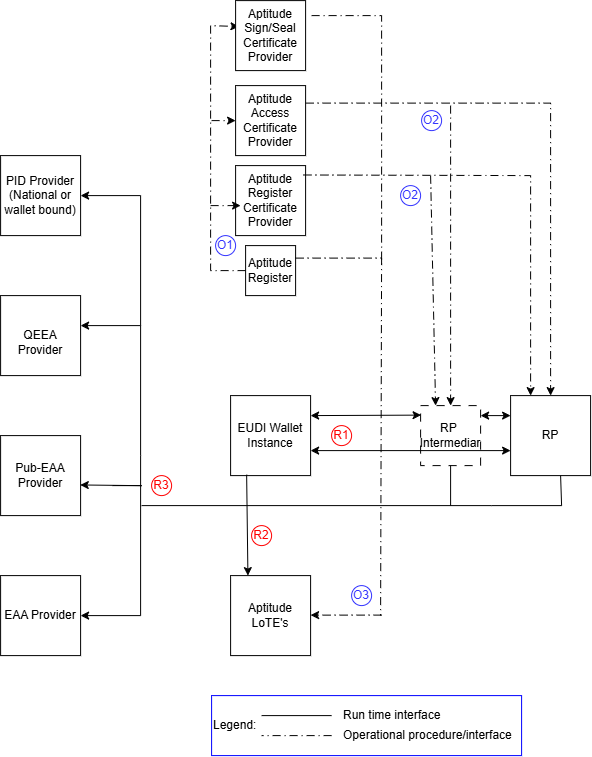
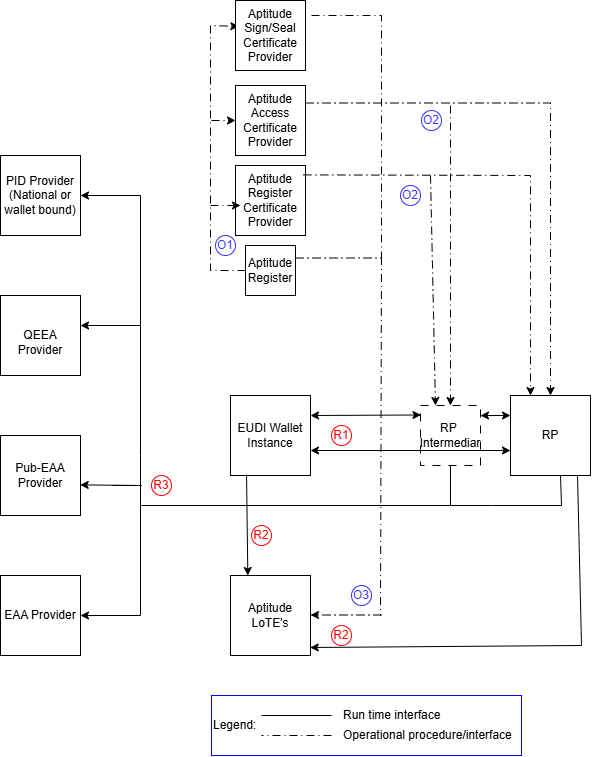
Final changes for ver 1.0 of remote presentation flow (#351)
* Final changes for ver 1.0

- fixed version reference of ETSI TS 119 472-1 to the latest 1.2.1 version
- removed requirement from 3.1.1 on http method used when JAR is collected

* Update Aptitude_issuance_landscape-roles_and_interfaces_overview.png

* Version 1.0 matching RFC02 ver1.0

Redo mappings on sequence diagram steps due to release of updated RFC02 from 12/10

* fixing PNG diagram

Fixing per mistake earlier today messed up roles and interface overview for issuance flow content

* Adjustments based on Nikos review

see PR for details

diff --git a/docs/wp2/Generic-remote-presentation-flow-specification.md b/docs/wp2/Generic-remote-presentation-flow-specification.md
@@ -1,7 +1,7 @@
 # Generic remote presentation flow specification
 
-Version 0.99
-Date 15-09-2026
+Version 1.0
+Date 22-10-2026
 
 ## Authors
 
@@ -112,8 +112,8 @@ href="https://www.rfc-editor.org/info/rfc9101/">RFC 9101</a></p>
 href="https://datatracker.ietf.org/doc/draft-ietf-oauth-sd-jwt-vc/17/">SD-JWT
 VC Draft 17</a>, <a
 href="https://www.rfc-editor.org/info/rfc9901/">RFC9901 (SD-JWT)</a>, <a
-href="https://www.etsi.org/deliver/etsi_ts/119400_119499/11947201/01.01.01_60/ts_11947201v010101p.pdf">ETSI
-TS 119 472-1 ver1.1.1</a></p></td>
+href="https://www.etsi.org/deliver/etsi_ts/119400_119499/11947201/01.02.01_60/ts_11947201v010201p.pdf">ETSI
+TS 119 472-1 ver1.2.1</a></p></td>
 <td>VP and supporting standards</td>
 </tr>
 <tr>
@@ -159,7 +159,6 @@ In follow up table the requirements relevant for the flow are listed with decisi
 |Browser mediation API (Digital Credential API) usage in cross-device flow|Not in the scope | To introduce it as optional within the ver 1.1|
 |Response with VP Token through browser redirect or HTTP POST request|Partially in scope | Only HTTP Post shall be used, as mandated by HAIP|
 |RO (Request Object) shall be retrieved as JAR, as per [RFC9101](https://www.rfc-editor.org/info/rfc9101/)|In scope|For this applied HAIP/ETSI flow, the signed JAR Request Object is passed by reference using `request_uri` in same-device and cross-device flows. Its JOSE header has `typ` set to `oauth-authz-req+jwt`, and `client_id` uses the `x509_hash` prefix. The Wallet checks the audience, nonce, validity period, signature, and applicable `x5c` restrictions. These are profile choices for this flow, not baseline RFC002 trust-governance rules.|
-|Verifier and wallet may support using of request_uri_method=post, allowing wallet to pass its technical capabilities when requesting RO|Not in the scope|Only the value of get is supported|
 |Support for verifiable presentations and for low-security credentials (without holder binding)|In scope|Impact on the validation steps by verifier|
 |response_type=vp_token parameter, combined with parameters response_uri and response_mode, that can have values of direct_post or direct_post.jwt is recommended to use within the RO|Partially in scope|This applied HAIP/ETSI flow uses `response_mode=direct_post.jwt`. The encrypted response uses verifier response-encryption key material supplied in `client_metadata`; the verifier provides fresh key material for each request.|
 |Protocol supports broad range of client_id_prefix schemes|Partially in the scope|Subsequent profiles are limiting prefixes use. Retrieval of the verifier metadata depends on the prefix value, hence listing requirements as relevant for the flow|
@@ -279,7 +278,7 @@ sequenceDiagram
     R->>L: [V4.2] Fetch and validate QEAA-/(Pub)EAA-Provider LoTE
     L-->>R: LoTE
     Note over R: [V4.3] Validate credentials
-    opt Credential status is applicable
+    opt Credential status check is applicable
       R->>S: [4.3] Retrieve Status List Token
       S-->>R: Status List Token
       Note over R: [V4.4] Validate credential status
@@ -300,29 +299,29 @@ sequenceDiagram
 | SD step | API/message or process | Step description and references |
 | --- | --- | --- |
 | 1.1 | Request service | The User starts a service interaction with the RP or RPI. |
-| 1.2 | Request Wallet metadata | Optionally retrieve the Wallet metadata and supported presentation formats. See [OpenID4VP 1.0](https://openid.net/specs/openid-4-verifiable-presentations-1_0.html). |
-| 2a.1 | Send same-device Authorization Request | Invoke the Wallet using `request_uri`, `client_id`, and the applicable `request_uri_method`. Supported custom URI schemes are `eu-eaap://`, `haip-vp://`, `openid4vp://`, and `mdoc-openid4vp://`. See [RFC002 §6.1.2 and §8.1](../RFCs/RFC002.md#612-wallet-invocation). |
-| 2b.1 | Display cross-device Authorization Request | Encode the Authorization Request reference in a QR code for scanning by the Wallet. This RFC version does not use `mdoc-openid4vp` for cross-device presentation. See [RFC002 §6.2](../RFCs/RFC002.md#62-cross-device-presentation-flow-non-api-mediated). |
-| 2.2 | Retrieve Request Object | Retrieve the signed JAR Request Object by reference from `request_uri`. See [RFC002 §8.2](../RFCs/RFC002.md#82-presentation-request-interface). |
-| V2.1 | Validate Request Object | Parse the Request Object and validate the applicable profile requirements for `typ`, `client_id` with `x509_hash`, `aud`, `nonce`, validity, `response_type`, `response_mode`, `response_uri`, `client_metadata`, `dcql_query`, `state`, `verifier_info`, and `x5c`. Cryptographic WRP authentication is completed in V2.3. See [OpenID4VP §5, §5.1](https://openid.net/specs/openid-4-verifiable-presentations-1_0.html#name-request-object-validation), [HAIP §5.1](https://openid.net/specs/openid4vc-high-assurance-interoperability-profile-1_0-final.html), [RFC9101](https://www.rfc-editor.org/info/rfc9101), and [RFC002 §8.2.2 and §8.2.4](../RFCs/RFC002.md#822-etsi-aligned-request-object-requirements). |
+| 1.2 | Request Wallet metadata | Optionally retrieve the Wallet metadata and supported presentation formats. See [RFC002 §6.1.1](../RFCs/RFC002.md#611-wallet-metadata-discovery), [RFC002 §6.2.1](../RFCs/RFC002.md#621-wallet-metadata-discovery) and [RFC002 §8.5](../RFCs/RFC002.md#85-wallet-metadata-interface) |
+| 2a.1 | Send same-device Authorization Request | Invoke the Wallet app from the browser session running on the mobile device and pass `client_id`, `request_uri` and optional `request_uri_method`. See [RFC002 §6.1.3](../RFCs/RFC002.md#613-wallet-invocation) and [RFC002 §8.1](../RFCs/RFC002.md#81-wallet-invocation-interface) |
+| 2b.1 | Display cross-device Authorization Request | Encode the Authorization Request reference in a QR code for scanning by the Wallet. See [RFC002 §6.2.2](../RFCs/RFC002.md#622-presentation-request-creation-and-display), [RFC002 §6.2.3](../RFCs/RFC002.md#623-wallet-invocation-via-qr-link-or-equivalent) and [RFC002 §8.1](../RFCs/RFC002.md#81-wallet-invocation-interface) |
+| 2.2 | Retrieve Request Object | Retrieve the signed JAR Request Object by reference from `request_uri`. See [RFC002 §6.1.4](../RFCs/RFC002.md#614-request-object-retrieval) and [RFC002 §6.2.4](../RFCs/RFC002.md#624-request-object-retrieval). Further [RFC002 §6.1.2](../RFCs/RFC002.md#612-presentation-request-creation) and [RFC002 §8.3](../RFCs/RFC002.md#83-presentation-request-object) provide more info on JAR object itself.  [RFC002 §8.2](../RFCs/RFC002.md#82-signed-presentation-request-object-retrieval) provides info on different protocol options that can be used to retrieve JAR object |
+| V2.1 | Validate Request Object | Parse the Request Object and validate the applicable profile requirements for `typ`, `client_id` with `x509_hash`, `aud`, `nonce`, validity, `response_type`, `response_mode`, `response_uri`, `client_metadata`, `dcql_query`, `state`, `verifier_info`, and `x5c`. Cryptographic WRP authentication is completed in V2.3. See [RFC002 §6.1.5](../RFCs/RFC002.md#615-wallet-validation) and [RFC002 §8.3.4](../RFCs/RFC002.md#834-request-validation-expectations) |
 | V2.2 | Validate WRPAC-provider LoTE | Retrieve the dedicated WRPAC-provider LoTE through the common LoTE endpoint, validate the LoTE, and extract the applicable WRPAC Trust Anchor before certificate-path validation. See the [RFC003 LoTE Endpoint](../RFCs/RFC003.md#71-lote-endpoint), [Trust Anchor Validation Process](https://aptitude-consortium.github.io/wp2-trust-specifications/latest/sections/trust-evaluation-process/#trust-anchor-validation-process), and [LoTE Validation Process](https://aptitude-consortium.github.io/wp2-trust-specifications/latest/sections/trust-evaluation-process/#list-of-trusted-entities-validation-process). |
-| V2.3 | Authenticate WRP | Validate the WRPAC path at the current time using RFC 5280, check certificate status through the applicable RFC004 CRL or OCSP mechanism, verify the Request Object signature with the validated WRPAC leaf key, and verify `x509_hash`, `typ`, audience, nonce, validity, and applicable HAIP `x5c` restrictions. The result is `AUTHENTICATED` or blocking `NON_AUTHENTICATED`. See the [Authentication Process](https://aptitude-consortium.github.io/wp2-trust-specifications/latest/sections/trust-evaluation-process/#authentication-process), [WRPAC](https://aptitude-consortium.github.io/wp2-trust-specifications/latest/sections/trust-artifacts/#wallet-relying-party-access-certificate), [X.509 Certificate Chain Validation](https://aptitude-consortium.github.io/wp2-trust-specifications/latest/sections/trust-evaluation-process/#certificate-path-validation), and [RFC004 §6.1, 7.1, and §7.2](../RFCs/RFC004.md#61-wallet-solution-requirements). |
-| 2.3 | Extract authorization evidence | Extract the remote WRPRC and RPRC_19a presentation context from `verifier_info`. See [Authorization Evidences and Distribution Methods](https://aptitude-consortium.github.io/wp2-trust-specifications/latest/sections/trust-evaluation-process/#authorization-evidences) and [RFC002 §8.2.2](../RFCs/RFC002.md#822-etsi-aligned-request-object-requirements). |
+| V2.3 | Authenticate WRP | Validate the WRPAC path at the current time using RFC 5280, check certificate status through the applicable RFC004 CRL or OCSP mechanism, verify the Request Object signature with the validated WRPAC leaf key, and verify `x509_hash`, `typ`, audience, nonce, validity, and applicable HAIP `x5c` restrictions. The result is `AUTHENTICATED` or blocking `NON_AUTHENTICATED`. See the [Authentication Process](https://aptitude-consortium.github.io/wp2-trust-specifications/latest/sections/trust-evaluation-process/#authentication-process), [WRPAC](https://aptitude-consortium.github.io/wp2-trust-specifications/latest/sections/trust-artifacts/#wallet-relying-party-access-certificate) and [X.509 Certificate Chain Validation](https://aptitude-consortium.github.io/wp2-trust-specifications/latest/sections/trust-evaluation-process/#certificate-path-validation) |
+| 2.3 | Extract authorization evidence | Extract the remote WRPRC and RPRC_19a presentation context from `verifier_info`. See [Authorization Evidences and Distribution Methods](https://aptitude-consortium.github.io/wp2-trust-specifications/latest/sections/trust-evaluation-process/#authorization-evidences) and [RFC002 §8.3.2](../RFCs/RFC002.md#832-registrar-information-and-registration-certificates) |
 | V2.4 | Validate WRPRC-provider LoTE | Retrieve the dedicated WRPRC-provider LoTE through the same LoTE endpoint used in V2.2, validate the LoTE, and extract the applicable WRPRC Trust Anchor. See the [RFC003 LoTE Endpoint](../RFCs/RFC003.md#71-lote-endpoint) and [Trust Anchor Validation Process](https://aptitude-consortium.github.io/wp2-trust-specifications/latest/sections/trust-evaluation-process/#trust-anchor-validation-process). |
-| V2.5 | Validate WRPRC | Validate the remote WRPRC format and `typ=rc-wrp+jwt`, accepted algorithm, signature, certificate path, `iat` and `exp`, status, subject/context coherence, and intermediary data. See the [WRPRC Validation Procedure](https://aptitude-consortium.github.io/wp2-trust-specifications/latest/sections/trust-evaluation-process/#wrprc-validation-procedure), [WRPRC](https://aptitude-consortium.github.io/wp2-trust-specifications/latest/sections/trust-artifacts/#wallet-relying-party-registration-certificate), [X.509 validation](https://aptitude-consortium.github.io/wp2-trust-specifications/latest/sections/trust-evaluation-process/#certificate-path-validation), and [RFC004 §6.3, 7.3, and §10.1.3](../RFCs/RFC004.md#63-provider-of-wrprc-requirements). |
+| V2.5 | Validate WRPRC | Validate the remote WRPRC format and `typ=rc-wrp+jwt`, accepted algorithm, signature, certificate path, `iat` and `exp`, status, subject/context coherence, and intermediary data. See the [WRPRC Validation Procedure](https://aptitude-consortium.github.io/wp2-trust-specifications/latest/sections/trust-evaluation-process/#wrprc-validation-procedure), [WRPRC](https://aptitude-consortium.github.io/wp2-trust-specifications/latest/sections/trust-artifacts/#wallet-relying-party-registration-certificate), [X.509 validation](https://aptitude-consortium.github.io/wp2-trust-specifications/latest/sections/trust-evaluation-process/#certificate-path-validation), and [RFC004 §6.3, 7.3, and §10.1.3](../RFCs/RFC004.md#63-provider-of-wrprc-requirements) |
 | V2.6 | Evaluate presentation authorization | Apply direct or intermediary binding, `Service_Provider` entitlement, user-optional exact and case-sensitive scope comparison, and EDP evaluation for every matching attestation. Use final-RP context for an intermediated request. Display the final RP identity, requested attributes, intended use, privacy policy, and advisories. Binding and intermediary failures are non-overridable; the other presentation outcomes follow the authorization override rules. See [Authorization During Presentation](https://aptitude-consortium.github.io/wp2-trust-specifications/latest/sections/trust-evaluation-process/#authorization-during-presentation), [binding](https://aptitude-consortium.github.io/wp2-trust-specifications/latest/sections/trust-evaluation-process/#binding-verification-procedure), [entitlement](https://aptitude-consortium.github.io/wp2-trust-specifications/latest/sections/trust-evaluation-process/#entitlement-verification-procedure), [scope](https://aptitude-consortium.github.io/wp2-trust-specifications/latest/sections/trust-evaluation-process/#scope-comparison-procedure-presentation-only-user-optional), [EDP](https://aptitude-consortium.github.io/wp2-trust-specifications/latest/sections/trust-evaluation-process/#edp-evaluation-procedure). |
-| 3.1 | Authenticate User | Authenticate the User locally before allowing credential disclosure. See [RFC002 same-device](../RFCs/RFC002.md#61-same-device-presentation-flow) and [cross-device](../RFCs/RFC002.md#62-cross-device-presentation-flow-non-api-mediated) presentation flows. |
-| 3.2 | Select credentials and disclosures | Select credentials and disclosures that satisfy `dcql_query`. Where applicable, include `transaction_data` in the information presented for User consent. See [RFC002 §6.1.5](../RFCs/RFC002.md#615-presentation-generation) and [OpenID4VP DCQL processing](https://openid.net/specs/openid-4-verifiable-presentations-1_0.html). |
+| 3.1 | Authenticate User | Authenticate the User locally before allowing credential disclosure. |
+| 3.2 | Select credentials and disclosures | Select credentials and disclosures that satisfy `dcql_query`. Where applicable, include `transaction_data` in the information presented for User consent. See [RFC002 §6.1.6](../RFCs/RFC002.md#616-holder-consent) and [OpenID4VP DCQL processing](https://openid.net/specs/openid-4-verifiable-presentations-1_0.html) |
 | 3.3 | Approve or deny disclosure | Ask the User to approve or deny disclosure after displaying the final RP and the authorization information and advisories produced by V2.6. See the [Authorization Process User approval steps](https://aptitude-consortium.github.io/wp2-trust-specifications/latest/sections/trust-evaluation-process/#authorization-during-presentation). |
-| 3.4 | Generate or omit holder proof | For SD-JWT VC, generate a KB-JWT bound to the request nonce and audience when holder binding is required. For `mso_mdoc`, generate the `DeviceResponse` and `DeviceAuth` using the reconstructed `SessionTranscript` when `mdoc-openid4vp` applies. If holder binding is not required, omit the proof while retaining request/response correlation and anti-replay validation. See [RFC9901 §4.3](https://www.rfc-editor.org/rfc/rfc9901.html#section-4.3), [RFC002 §5.6, §7.2, §8.2.3.1, §8.2.5, and §8.3.3.1](../RFCs/RFC002.md#56-mdoc-openid4vp-profile), and the [HAIP format rules](https://openid.net/specs/openid4vc-high-assurance-interoperability-profile-1_0-final.html#name-openid4vc-credential-format). |
-| 3.5 | Encrypt Authorization Response | Encrypt the response as JWE using the verifier's fresh per-request key from `client_metadata` and the applicable `alg`, `enc`, and `kid`. For HAIP, use ECDH-ES with P-256 and support the applicable `A128GCM` and `A256GCM` content-encryption algorithms. See [RFC002 §8.3.2](../RFCs/RFC002.md#832-etsi-aligned-response-protection), [OpenID4VP §8.3](https://openid.net/specs/openid-4-verifiable-presentations-1_0.html#name-response), and [HAIP §§5.1.2.3, 5.2.5, and 5.2.6](https://openid.net/specs/openid4vc-high-assurance-interoperability-profile-1_0-final.html). |
-| 4.1 | Submit Authorization Response | Send an HTTP POST using `response_mode=direct_post.jwt`, with the encrypted JWE in the `response` parameter. See [RFC002 §8.3](../RFCs/RFC002.md#83-presentation-response-interface) and [OpenID4VP `direct_post.jwt`](https://openid.net/specs/openid-4-verifiable-presentations-1_0.html#name-response-mode-direct_postjw). |
-| 4.2 | Decrypt Authorization Response | Decrypt the JWE using the verifier's corresponding per-request private key before validating the enclosed response and presentations. See [RFC002 §8.3.2](../RFCs/RFC002.md#832-etsi-aligned-response-protection) and [OpenID4VP encrypted responses](https://openid.net/specs/openid-4-verifiable-presentations-1_0.html#name-encrypted-responses). |
-| V4.1 | Validate presentations | Validate request/session correlation and `state` where applicable, nonce and audience/client binding, response and proof integrity, requested disclosures and claim constraints, and format-specific holder binding. For mdoc, validate `DeviceResponse`, document type, namespaces and elements, handover, `DeviceAuth`, and the reconstructed `SessionTranscript`. Reject invalid presentations before relying on them. See [RFC002 §7.2 and §8.3.3.1 and APT-PRES-VER-08 through -12](../RFCs/RFC002.md#72-verifier-requirements), [OpenID4VP §8](https://openid.net/specs/openid-4-verifiable-presentations-1_0.html), and [HAIP §5](https://openid.net/specs/openid4vc-high-assurance-interoperability-profile-1_0-final.html). |
+| 3.4 | Generate or omit holder proof | For SD-JWT VC, generate binding through KB-JWT by using `nonce` and `audience` . For `mso_mdoc`, generate the `DeviceResponse` and `DeviceAuth` using the reconstructed `SessionTranscript` when `mdoc-openid4vp` applies. If holder binding is not required, omit the proof while retaining request/response correlation and anti-replay validation. See [RFC9901 §4.3](https://www.rfc-editor.org/rfc/rfc9901.html#section-4.3), [RFC002 §6.1.7](../RFCs/RFC002.md#617-presentation-generation) and [RFC002 §8.4.1](../RFCs/RFC002.md#841-response-contents) |
+| 3.5 | Encrypt Authorization Response | Encrypt the response as JWE using the verifier's fresh per-request key from `client_metadata` and the applicable `alg`, `enc`, and `kid`. See [RFC002 §6.1.7](../RFCs/RFC002.md#617-presentation-generation) and [RFC002 §8.4.2](../RFCs/RFC002.md#842-eu-eaap-response-encryption) |
+| 4.1 | Submit Authorization Response | Send an HTTP POST using `response_mode=direct_post.jwt`, with the encrypted JWE in the `response` parameter. See [RFC002 §6.1.8](../RFCs/RFC002.md#618-presentation-submission), [RFC002 §6.2.8](../RFCs/RFC002.md#628-presentation-submission) and [RFC002 §8.4](../RFCs/RFC002.md#84-presentation-response-interface)|
+| 4.2 | Decrypt Authorization Response | Decrypt the JWE using the verifier's corresponding per-request private key before validating the enclosed response and presentations. See  [OpenID4VP encrypted responses](https://openid.net/specs/openid-4-verifiable-presentations-1_0.html#name-encrypted-responses) |
+| V4.1 | Validate presentations | Validate decrypted vp_token content. See [RFC002 §6.1.9](../RFCs/RFC002.md#619-result-handling), [RFC002 §6.2.9](../RFCs/RFC002.md#629-result-handling) and [RFC002 §8.4.4](../RFCs/RFC002.md#844-error-responses) |
 | V4.2 | Validate Credential Issuer LoTE | Retrieve the applicable Credential Issuer LoTE through the common LoTE endpoint, validate it, and extract the Trust Anchor for the credential's Sign/Seal certificate chain. Apply the request's `trusted_authorities` selection when present. See the [RFC003 LoTE Endpoint](../RFCs/RFC003.md#71-lote-endpoint), [Trust Anchor Validation Process](https://aptitude-consortium.github.io/wp2-trust-specifications/latest/sections/trust-evaluation-process/#trust-anchor-validation-process), and [LoTE Validation Process](https://aptitude-consortium.github.io/wp2-trust-specifications/latest/sections/trust-evaluation-process/#list-of-trusted-entities-validation-process). |
-| V4.3 | Validate credentials | Validate every returned credential or attestation, including its issuer signature, Sign/Seal certificate chain against the Trust Anchor obtained in V4.2, temporal validity, disclosed claims, and applicable format constraints. See the [Sign/Seal Validation Process](https://aptitude-consortium.github.io/wp2-trust-specifications/latest/sections/trust-evaluation-process/#signseal-validation-process), [X.509 Certificate Chain Validation](https://aptitude-consortium.github.io/wp2-trust-specifications/latest/sections/trust-evaluation-process/#certificate-path-validation), [RFC002 Verifier Requirements](../RFCs/RFC002.md#72-verifier-requirements), and [HAIP §6](https://openid.net/specs/openid4vc-high-assurance-interoperability-profile-1_0-final.html). |
+| V4.3 | Validate credentials | Validate every returned credential or attestation, including its issuer signature, Sign/Seal certificate chain against the Trust Anchor obtained in V4.2, temporal validity, disclosed claims, and applicable format constraints. See the [Sign/Seal Validation Process](https://aptitude-consortium.github.io/wp2-trust-specifications/latest/sections/trust-evaluation-process/#signseal-validation-process), [X.509 Certificate Chain Validation](https://aptitude-consortium.github.io/wp2-trust-specifications/latest/sections/trust-evaluation-process/#certificate-path-validation) and [RFC002 §7.2 Verifier Requirements](../RFCs/RFC002.md#72-verifier-requirements)|
 | 4.3 | Retrieve Status List Token | For each returned credential with an applicable status reference, retrieve the Status List Token from the Credential Issuer. See the [APTITUDE Trust Management and Lifecycle](https://aptitude-consortium.github.io/wp2-trust-specifications/latest/sections/trust-management-lifecycle/) and [RFC004 §7.3](../RFCs/RFC004.md#73-tsl-endpoint). |
 | V4.4 | Validate credential status | Validate the referenced artifact and status reference, SLT signature and trust, subject URI binding, `iat`, `exp`, and `ttl`, decompression, index bounds, and profile-specific status mapping. Accept `VALID`, reject `INVALID`, and apply issuer policy to `SUSPENDED`. See [RFC004 §6.1, §10.1.2, §10.1.3, §10.1.4, and TSL-VAL-01 through -08](../RFCs/RFC004.md#1012-token-status-list-digital-credentials-profile). |
-| 4.4 | Return same-device redirect URI | After the response POST in a same-device flow, return `redirect_uri` to the Wallet. This step does not apply to cross-device presentation. See [OpenID4VP §8.2](https://openid.net/specs/openid-4-verifiable-presentations-1_0.html#name-response-mode-direct_post) and [HAIP §5.1](https://openid.net/specs/openid4vc-high-assurance-interoperability-profile-1_0-final.html). |
-| 4.5 | Follow same-device redirect URI | Follow `redirect_uri` in the same session. The Verifier rejects a missing redirect or one associated with a different session. See [HAIP §5.1](https://openid.net/specs/openid4vc-high-assurance-interoperability-profile-1_0-final.html) and the [OpenID4VP session-fixation considerations](https://openid.net/specs/openid-4-verifiable-presentations-1_0.html#name-session-fixation). |
-| 5.1 | Continue service usage | Continue the RP service only after successful presentation processing and, for same-device presentation, successful redirect completion. See [RFC002 §6.1.7](../RFCs/RFC002.md#617-result-handling). |
+| 4.4 | Return same-device redirect URI | After the response POST in a same-device flow, return `redirect_uri` to the Wallet. This step does not apply to cross-device presentation. See [RFC002 §6.1.10](../RFCs/RFC002.md#6110-same-device-redirect-and-session-completion) |
+| 4.5 | Follow same-device redirect URI | Follow `redirect_uri` in the same session. The Verifier rejects a missing redirect or one associated with a different session. See [RFC002 §6.1.10](../RFCs/RFC002.md#6110-same-device-redirect-and-session-completion) and the [OpenID4VP session-fixation considerations](https://openid.net/specs/openid-4-verifiable-presentations-1_0.html#name-session-fixation) |
+| 5.1 | Continue service usage | Continue the RP service only after successful presentation processing and, for same-device presentation, successful redirect completion. |
